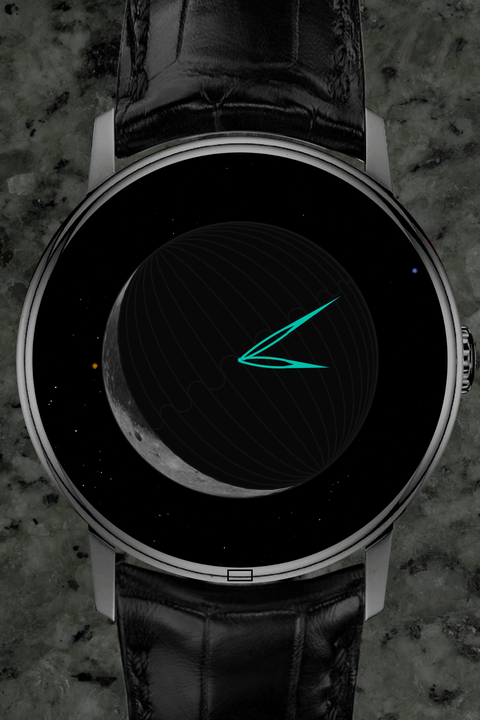
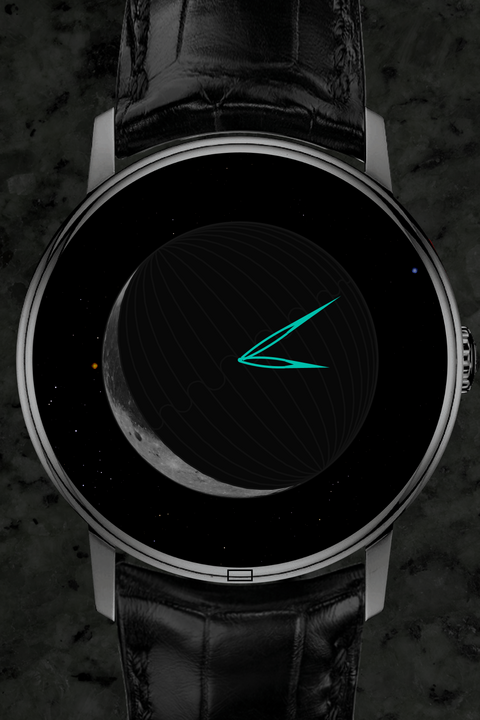
0.1.2: night mode dims the background
Matches the iPhone's Background.xml 'dim' part: in night mode a 50%
black layer covers the granite (and the gap between faces while
sliding) under the face, and darkens the status indicators. The
test harness applies the same dim to night renders, and the README's
Chandra night screenshot is regenerated from it.

diff --git a/app/src/main/kotlin/com/plasticsmoke/beryl/app/MainActivity.kt b/app/src/main/kotlin/com/plasticsmoke/beryl/app/MainActivity.kt
@@ -53,6 +53,9 @@ class MainActivity : Activity() {
     private lateinit var timeDot: View
     private lateinit var locDot: View
     private lateinit var alarmDot: View
+    private val nightDimPaint = Paint().apply {
+        colorFilter = android.graphics.PorterDuffColorFilter(NIGHT_DIM_COLOR, android.graphics.PorterDuff.Mode.SRC_ATOP)
+    }
     private lateinit var timeText: TextView
     private lateinit var locText: TextView
     private lateinit var alarmText: TextView
@@ -166,6 +169,7 @@ class MainActivity : Activity() {
         root.addView(timeText, FrameLayout.LayoutParams(ViewGroup.LayoutParams.WRAP_CONTENT, ViewGroup.LayoutParams.WRAP_CONTENT, Gravity.TOP or Gravity.START).apply { leftMargin = dp(14); topMargin = topM + dp(14) })
         root.addView(alarmText, FrameLayout.LayoutParams(ViewGroup.LayoutParams.WRAP_CONTENT, ViewGroup.LayoutParams.WRAP_CONTENT, Gravity.TOP or Gravity.START).apply { leftMargin = dp(14); topMargin = topM + dp(48) })
         root.addView(locText, FrameLayout.LayoutParams(ViewGroup.LayoutParams.WRAP_CONTENT, ViewGroup.LayoutParams.WRAP_CONTENT, Gravity.TOP or Gravity.END).apply { rightMargin = dp(14); topMargin = topM + dp(14) })
+        applyNightDim()   // a face restored in night mode before the dots existed
         watchView.onEmptyTap = {
             updateIndicators()
             for (t in listOf(timeText, locText, alarmText)) t.animate().alpha(1f).setDuration(330).start()
@@ -278,9 +282,23 @@ class MainActivity : Activity() {
         // Night mode dims the corner chrome (iOS swaps every corner button to dim n*-png art —
         // Background.xml nday/ngrid/ninfo/… — preserving dark adaptation).
         val base = if (lightsOn) NIGHT_TINT else BUTTON_TINT
+        applyNightDim()
         for (b in fanButtons) b.setTextColor(base)
         lightsButton.setTextColor(if (lightsOn) NIGHT_ACTIVE_TINT else BUTTON_TINT)
         flipButton.setTextColor(if (flipped) ACTIVE_TINT else base)
+    }
+
+    /** iOS Background.xml 'dim' (modes='night'): ~50% black over the granite and over the
+     *  status lights/alarm glyph, which precede it in the XML draw order. A layer paint with a
+     *  SRC_ATOP black filter darkens exactly the dots' own pixels, like the overlay does. */
+    private fun applyNightDim() {
+        val night = lightsOn && !flipped
+        watchView.nightDim = night
+        if (!::timeDot.isInitialized) return   // re-applied once the dots exist
+        for (v in listOf(timeDot, locDot, alarmDot)) {
+            if (night) v.setLayerType(View.LAYER_TYPE_HARDWARE, nightDimPaint)
+            else v.setLayerType(View.LAYER_TYPE_NONE, null)
+        }
     }
 
     // --- info (per-face help HTML) ---

diff --git a/app/src/main/kotlin/com/plasticsmoke/beryl/app/WatchView.kt b/app/src/main/kotlin/com/plasticsmoke/beryl/app/WatchView.kt
@@ -28,6 +28,10 @@ import com.plasticsmoke.beryl.watch.WheelPart
 import kotlin.math.abs
 import kotlin.math.min
 
+/** iOS Background/dim.png: black at alpha 0x80, laid over the granite (and the status lights
+ *  drawn before it in Background.xml) in night mode. */
+internal const val NIGHT_DIM_COLOR = 0x80000000.toInt()
+
 /**
  * Renders the current watch face over the granite wallpaper on the iOS logical 320×480 screen,
  * scaled to fit the view. Dragging horizontally slides between faces like the iPhone: the
@@ -1444,6 +1448,17 @@ class WatchView(
         resetPeeks()   // peek bitmaps are sized to the view — re-render both at the new size
     }
 
+    /** iOS Background.xml 'dim' part (modes='night', dim.png = 3×3 black @ alpha 0x80, stretched
+     *  full-screen by ECPartController isDimPart): night mode darkens the granite ~50%. It's a
+     *  BACKGROUND-watch part, drawn before the faces, so it dims the wallpaper and slide gaps but
+     *  never a face. Set by MainActivity.applyMode, which runs on every mode change + face switch. */
+    var nightDim = false
+        set(value) {
+            if (field == value) return
+            field = value
+            invalidate()
+        }
+
     /** The stationary base layer: granite scaled to the view (built once per size, UI thread). */
     private fun drawWallpaper(canvas: Canvas) {
         val wp = wallpaper
@@ -1455,6 +1470,7 @@ class WatchView(
             ?: Bitmap.createScaledBitmap(wp, width, height, true)
                 .also { it.density = Bitmap.DENSITY_NONE; scaledWallpaper = it }
         canvas.drawBitmap(scaled, 0f, 0f, null)
+        if (nightDim) canvas.drawColor(NIGHT_DIM_COLOR)
     }
 
     /** The best available bitmap for face [idx] right now: the live main buffer if it holds that

diff --git a/engine/src/test/kotlin/com/plasticsmoke/beryl/render/PhoneFrame.kt b/engine/src/test/kotlin/com/plasticsmoke/beryl/render/PhoneFrame.kt
@@ -43,8 +43,18 @@ object PhoneFrame {
         return out
     }
 
-    /** Render [watch] over the wallpaper at full phone frame and write `build/<outName>.png`. */
-    fun render(watch: Watch, env: Environment, images: Map<String, LoadedImage>, outName: String): BufferedImage {
+    /**
+     * Render [watch] over the wallpaper at full phone frame and write `build/<outName>.png`.
+     * [night] lays the iOS Background.xml 'dim' part (dim.png: black @ alpha 0x80, modes='night')
+     * over the granite before the face, as the app does; every night render is named `*-night`.
+     */
+    fun render(
+        watch: Watch,
+        env: Environment,
+        images: Map<String, LoadedImage>,
+        outName: String,
+        night: Boolean = outName.endsWith("-night"),
+    ): BufferedImage {
         val w = (SCREEN_W * SCALE).roundToInt()
         val h = (SCREEN_H * SCALE).roundToInt()
         val out = BufferedImage(w, h, BufferedImage.TYPE_INT_ARGB)
@@ -55,6 +65,10 @@ object PhoneFrame {
             val at = AffineTransform()
             at.scale(w.toDouble() / wp.width, h.toDouble() / wp.height)
             g.drawImage(wp, at, null)
+        }
+        if (night) {
+            g.color = java.awt.Color(0, 0, 0, 0x80)
+            g.fillRect(0, 0, w, h)
         }
         renderFrame(AwtDrawingContext(g, w, h), watch, env, SCALE, w, h, images)
         g.dispose()

diff --git a/DEVLOG.md b/DEVLOG.md
@@ -645,3 +645,19 @@ distinct from Emerald Sequoia's product while the README and NOTICE attribute th
 - **Release signing**: `keystore.properties` (git-ignored) points at a dedicated release
   keystore; without it, release builds fall back to the debug key so anyone can build.
   Published APKs must always come from the same key or Android refuses the update.
+
+## 2026-11-13 — 0.1.2: night mode dims the background
+
+On the iPhone the wallpaper is itself a pseudo-watch (`Background.xml`) that follows the
+current face into night mode, and it has one night-only part, `dim`: a 3×3 `dim.png` of black at
+alpha 0x80 that the iOS code stretches to the full screen (`ECPartController` special-cases the
+part name). It is drawn before the faces, so it darkens the granite and the gap between faces
+during a slide by about half, plus the status lights that come before it in the XML. The
+corner buttons come after it and have their own dim night art.
+
+- `WatchView.nightDim` lays the same 50% black over the granite before compositing the faces;
+  `MainActivity.applyNightDim()` sets it from `applyMode()`, so it follows night toggles and
+  each face's persisted mode on every switch, and darkens the time/location/alarm indicators
+  with a SRC_ATOP layer filter.
+- The test harness (`PhoneFrame.render`) applies the dim to every `*-night` render, so previews
+  match the device; the README's Chandra night screenshot is regenerated from it.
